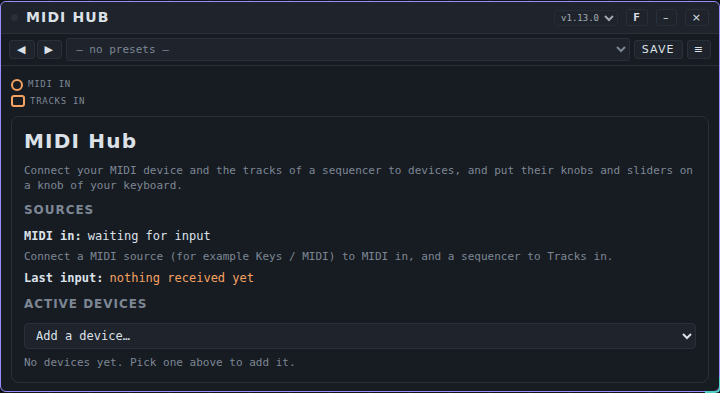
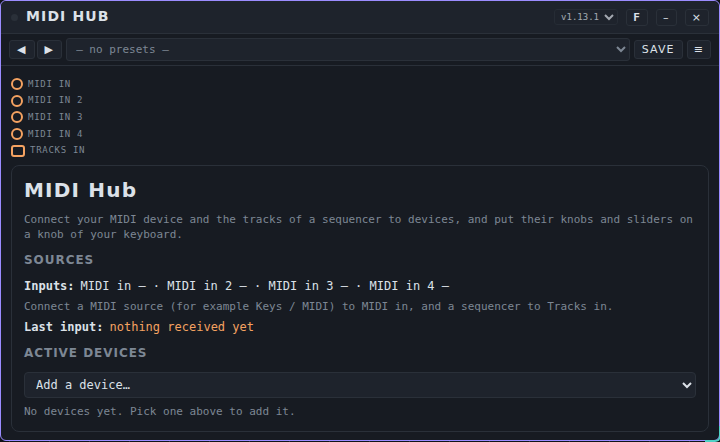
MIDI Hub: vier MIDI-ingangen voor meer dan één fysiek MIDI-apparaat tegelijk, koppelingen en noteroutes per ingang, versie 1.13.1, handleiding en schermbeeld bijgewerkt

diff --git a/devices/tools/MidiHub/midi-hub.patchkamer-device.js b/devices/tools/MidiHub/midi-hub.patchkamer-device.js
@@ -1,4 +1,5 @@
 // SPDX-License-Identifier: AGPL-3.0-or-later
+// 1.13.1 — Vier MIDI-ingangen (MIDI in, 2, 3 en 4) in plaats van één, zodat je meer dan één fysiek MIDI-apparaat tegelijk kunt gebruiken: zet per apparaat een Keys / MIDI op zijn eigen ingang (kies daar de MIDI-ingang) en verbind elk met een eigen ingang van de hub. Een koppeling en een noteroute kunnen op één ingang gelden of op alle; oude koppelingen en routes gelden op alle ingangen en werken dus als voorheen.
 // 1.13.0 — Eerste versie. De MIDI Hub staat tussen je MIDI-bronnen (Keys / MIDI, een controller) en de apparaten in de werkruimte. Hij ziet welke apparaten er staan en laat je er een
 //          toevoegen aan zijn actieve apparaten. Per apparaat kies je waar de noten vandaan komen (het keyboard, met een MIDI-kanaal, of een spoor van een sequencer via de multi-MIDI-kabel,
 //          met de spoornaam erbij) en koppel je knoppen, schuiven, pads en toetsen van je MIDI-apparaat aan elke regelaar op de kaart van dat apparaat (schuiven, draaiknoppen, keuzelijsten,
@@ -11,39 +12,39 @@ const NOTE = ['C', 'C#', 'D', 'D#', 'E', 'F', 'F#', 'G', 'G#', 'A', 'A#', 'B'];
 const noteName = n => NOTE[((n % 12) + 12) % 12] + (Math.floor(n / 12) - 1);
 const str = (v, d, max) => typeof v === 'string' ? v.slice(0, max || 200) : d;
 const int = (v, a, b, d) => typeof v === 'number' && Number.isFinite(v) ? clamp(Math.round(v), a, b) : d;
-const KINDS = ['cc', 'note', 'bend', 'pressure', 'name'];
+const KINDS = ['cc', 'note', 'bend', 'pressure', 'name'], INS = ['in', 'in2', 'in3', 'in4'];
 
 // Teksten per taal (host.lang): Nederlandse bron, Engels als alternatief; onbekende taal = Engels
 const TXT = {
   nl: { title: 'MIDI Hub', hint: 'Koppel je MIDI-apparaat en de sporen van een sequencer aan apparaten, en zet hun knoppen en schuiven op een knop van je keyboard.',
     last: 'Laatste invoer', none: 'nog niets ontvangen', sources: 'Bronnen', noSources: 'Verbind een MIDI-bron (bijvoorbeeld Keys / MIDI) met MIDI in, en een sequencer met Sporen in.',
-    kbd: 'MIDI in', kbdOn: 'ontvangt invoer', kbdOff: 'wacht op invoer', tracks: 'Sporen',
+    kbd: 'MIDI in', inputs: 'Ingangen', kbdOn: 'ontvangt invoer', kbdOff: 'wacht op invoer', tracks: 'Sporen',
     devices: 'Actieve apparaten', addDevice: 'Apparaat toevoegen…', noDevices: 'Nog geen apparaten. Kies er hierboven een om toe te voegen.', remove: 'Verwijder',
     routes: 'Noten van', addRoute: '+ bron', routeNone: 'geen', routeKbd: 'Keyboard', routeTrack: 'Spoor', chAny: 'alle kanalen', ch: 'kanaal',
     cable: 'kabel', cableOk: 'verbonden', cableNone: 'geen kabel', cableLost: 'kabel is los', reconnect: 'Opnieuw verbinden', noInput: 'Dit apparaat heeft geen gebeurtenissen-ingang.',
     maps: 'Koppelingen', addMap: '+ koppeling', learn: 'Leer', learning: 'Draai aan een knop…', learned: 'Geleerd', control: 'Regelaar', pick: 'Kies een regelaar', missing: 'niet gevonden',
     min: 'min', max: 'max', invert: 'omkeren', toggle: 'wissel', clear: 'Alles wissen', refresh: 'Ververs regelaars', counts: n => n + ' regelaar' + (n === 1 ? '' : 's'),
     lib: 'Bibliotheek', libPick: 'Opgeslagen koppeling…', load: 'Laad', save: 'Bewaar als…', del: 'Wis', libName: 'Naam van de koppeling', gone: 'Apparaat staat niet meer in de werkruimte',
-    srcCc: n => 'CC ' + n, srcName: n => 'CC ' + n, srcNote: n => 'Noot ' + noteName(n), srcBend: 'Pitch bend', srcPress: 'Kanaaldruk', anyCh: 'ch alle', unmapped: 'nog geen knop geleerd' },
+    inAny: 'alle ingangen', inN: p => (p === 'in' ? 'MIDI in' : 'MIDI in ' + p.slice(2)), srcCc: n => 'CC ' + n, srcName: n => 'CC ' + n, srcNote: n => 'Noot ' + noteName(n), srcBend: 'Pitch bend', srcPress: 'Kanaaldruk', anyCh: 'ch alle', unmapped: 'nog geen knop geleerd' },
   en: { title: 'MIDI Hub', hint: 'Connect your MIDI device and the tracks of a sequencer to devices, and put their knobs and sliders on a knob of your keyboard.',
     last: 'Last input', none: 'nothing received yet', sources: 'Sources', noSources: 'Connect a MIDI source (for example Keys / MIDI) to MIDI in, and a sequencer to Tracks in.',
-    kbd: 'MIDI in', kbdOn: 'receiving input', kbdOff: 'waiting for input', tracks: 'Tracks',
+    kbd: 'MIDI in', inputs: 'Inputs', kbdOn: 'receiving input', kbdOff: 'waiting for input', tracks: 'Tracks',
     devices: 'Active devices', addDevice: 'Add a device…', noDevices: 'No devices yet. Pick one above to add it.', remove: 'Remove',
     routes: 'Notes from', addRoute: '+ source', routeNone: 'none', routeKbd: 'Keyboard', routeTrack: 'Track', chAny: 'all channels', ch: 'channel',
     cable: 'cable', cableOk: 'connected', cableNone: 'no cable', cableLost: 'cable was removed', reconnect: 'Reconnect', noInput: 'This device has no event input.',
     maps: 'Mappings', addMap: '+ mapping', learn: 'Learn', learning: 'Move a knob…', learned: 'Learned', control: 'Control', pick: 'Pick a control', missing: 'not found',
     min: 'min', max: 'max', invert: 'invert', toggle: 'toggle', clear: 'Clear all', refresh: 'Refresh controls', counts: n => n + ' control' + (n === 1 ? '' : 's'),
     lib: 'Library', libPick: 'Saved mapping…', load: 'Load', save: 'Save as…', del: 'Delete', libName: 'Name of the mapping', gone: 'This device is no longer in the workspace',
-    srcCc: n => 'CC ' + n, srcName: n => 'CC ' + n, srcNote: n => 'Note ' + noteName(n), srcBend: 'Pitch bend', srcPress: 'Channel pressure', anyCh: 'ch any', unmapped: 'no knob learned yet' }
+    inAny: 'any input', inN: p => (p === 'in' ? 'MIDI in' : 'MIDI in ' + p.slice(2)), srcCc: n => 'CC ' + n, srcName: n => 'CC ' + n, srcNote: n => 'Note ' + noteName(n), srcBend: 'Pitch bend', srcPress: 'Channel pressure', anyCh: 'ch any', unmapped: 'no knob learned yet' }
 };
 
 const newMap = () => ({ src: null, ctl: '', label: '', min: 0, max: 1, inv: false, toggle: false });
 function normMap(m) {
-  m = m && typeof m === 'object' ? m : {}; const s = m.src && typeof m.src === 'object' && KINDS.includes(m.src.k) ? { k: m.src.k, n: int(m.src.n, -1, 127, -1), id: str(m.src.id, '', 40), ch: int(m.src.ch, 0, 16, 0) } : null;
+  m = m && typeof m === 'object' ? m : {}; const s = m.src && typeof m.src === 'object' && KINDS.includes(m.src.k) ? { k: m.src.k, n: int(m.src.n, -1, 127, -1), id: str(m.src.id, '', 40), ch: int(m.src.ch, 0, 16, 0), port: INS.includes(m.src.port) ? m.src.port : '' } : null;
   const lo = typeof m.min === 'number' && Number.isFinite(m.min) ? clamp(m.min, 0, 1) : 0, hi = typeof m.max === 'number' && Number.isFinite(m.max) ? clamp(m.max, 0, 1) : 1;
   return { src: s, ctl: str(m.ctl, '', 120), label: str(m.label, '', 60), min: lo, max: hi, inv: m.inv === true, toggle: m.toggle === true };
 }
-function normRoute(r) { r = r && typeof r === 'object' ? r : {}; return { src: r.src === 'tr' ? 'tr' : 'in', ch: int(r.ch, 0, 16, 0), key: str(r.key, '', 120), track: str(r.track, '', 80) }; }
+function normRoute(r) { r = r && typeof r === 'object' ? r : {}; return { src: r.src === 'tr' ? 'tr' : 'in', ch: int(r.ch, 0, 16, 0), port: INS.includes(r.port) ? r.port : '', key: str(r.key, '', 120), track: str(r.track, '', 80) }; }
 function normTarget(t) {
   t = t && typeof t === 'object' ? t : {};
   return { id: str(t.id, '', 40), def: str(t.def, '', 120), name: str(t.name, '', 80), port: str(t.port, '', 40), linked: t.linked === true, routes: (Array.isArray(t.routes) ? t.routes : []).slice(0, 16).map(normRoute), maps: (Array.isArray(t.maps) ? t.maps : []).slice(0, 128).map(normMap) };
@@ -57,12 +58,12 @@ function normalize(s) {
 }
 
 export default {
-  id: 'nl.patchkamer.midihub', name: 'MIDI Hub', version: '1.13.0', kind: 'utility', category: 'tool', ui: { width: 720, minWidth: 340 },
-  i18n: { nl: { ports: { in: 'MIDI in', tracks: 'Sporen in' } } },
-  ports: { audioIn: [], audioOut: [], eventIn: [{ id: 'in', name: 'MIDI in' }], eventOut: [], modIn: [], modOut: [], multiIn: [], multiOut: [], multiEventIn: [{ id: 'tracks', name: 'Tracks in' }], multiEventOut: [] },
+  id: 'nl.patchkamer.midihub', name: 'MIDI Hub', version: '1.13.1', kind: 'utility', category: 'tool', ui: { width: 720, minWidth: 340 },
+  i18n: { nl: { ports: { in: 'MIDI in', in2: 'MIDI in 2', in3: 'MIDI in 3', in4: 'MIDI in 4', tracks: 'Sporen in' } } },
+  ports: { audioIn: [], audioOut: [], eventIn: INS.map((id, i) => ({ id, name: i ? 'MIDI in ' + (i + 1) : 'MIDI in' })), eventOut: [], modIn: [], modOut: [], multiIn: [], multiOut: [], multiEventIn: [{ id: 'tracks', name: 'Tracks in' }], multiEventOut: [] },
   create(ctx, host) {
     const T = TXT[host && host.lang] || TXT.en;
-    let state = defaults(), dead = false, shell = null, sh = null, peers = [], bundles = new Map(), ctlCache = new Map(), learn = null, lastText = T.none, lastEl = null, heard = false, root = null, peerSig = '', portsApplied = false;
+    let state = defaults(), dead = false, shell = null, sh = null, peers = [], bundles = new Map(), ctlCache = new Map(), learn = null, lastText = T.none, lastEl = null, heard = new Set(), root = null, peerSig = '', portsApplied = false;
     const liveBars = new Map(), prev = new Map();   // meters en vorige waarde per koppeling (voor het oppakken van een flank)
     const pid = t => 'o_' + t.id;
     const peerOf = id => peers.find(p => p.id === id) || null;
@@ -70,7 +71,7 @@ export default {
     // ---- poorten: één eventuit per actief apparaat met een gebeurtenissen-ingang ----
     function portsNow() {
       const out = state.targets.filter(t => t.port).map(t => ({ id: pid(t), name: '→ ' + (t.name || t.id) }));
-      return { audioIn: [], audioOut: [], eventIn: [{ id: 'in', name: 'MIDI in' }], eventOut: out, modIn: [], modOut: [], multiIn: [], multiOut: [], multiEventIn: [{ id: 'tracks', name: 'Tracks in' }], multiEventOut: [] };
+      return { audioIn: [], audioOut: [], eventIn: INS.map((id, i) => ({ id, name: i ? 'MIDI in ' + (i + 1) : 'MIDI in' })), eventOut: out, modIn: [], modOut: [], multiIn: [], multiOut: [], multiEventIn: [{ id: 'tracks', name: 'Tracks in' }], multiEventOut: [] };
     }
     let portSig = '';
     function syncPorts() { const p = portsNow(), sig = JSON.stringify(p.eventOut); if (sig === portSig) return; portSig = sig; try { host.setPorts(self, p); } catch (e) { /* de host kent ons nog niet */ } }
@@ -106,7 +107,7 @@ export default {
       return { k: 'name', n: -1, id: String(ev.id || ''), val: v };
     }
     const sameSrc = (a, b) => a && b && a.k === b.k && (a.k === 'cc' || a.k === 'note' ? a.n === b.n : a.k === 'name' ? a.id === b.id : true);
-    const srcLabel = s => !s ? T.unmapped : (s.k === 'cc' ? T.srcCc(s.n) : s.k === 'note' ? T.srcNote(s.n) : s.k === 'bend' ? T.srcBend : s.k === 'pressure' ? T.srcPress : T.srcName(s.id)) + ' · ' + (s.ch ? 'ch ' + s.ch : T.anyCh);
+    const srcLabel = s => !s ? T.unmapped : (s.k === 'cc' ? T.srcCc(s.n) : s.k === 'note' ? T.srcNote(s.n) : s.k === 'bend' ? T.srcBend : s.k === 'pressure' ? T.srcPress : T.srcName(s.id)) + ' · ' + (s.ch ? 'ch ' + s.ch : T.anyCh) + (s.port ? ' · ' + T.inN(s.port) : '');
     function apply(t, m, mi, s) {
       let v = s.val; if (m.inv) v = 1 - v; v = m.min + v * (m.max - m.min);
       const key = t.id + ':' + mi, c = resolve(t, m); if (!c) return;
@@ -115,19 +116,19 @@ export default {
       const q = Math.round(v * 1024); if (prev.get(key) === q) return; prev.set(key, q); host.setControl(self, t.id, c.key, v);
       const bar = liveBars.get(key); if (bar) bar.style.width = Math.round(clamp(v, 0, 1) * 100) + '%';
     }
-    function onKeyboard(ev) {
+    function onKeyboard(ev, port) {
       const s = srcOf(ev), ch = int(ev.ch, 0, 16, 0);
-      if (!heard) { heard = true; render(); }
+      if (!heard.has(port)) { heard.add(port); render(); }
       if (s) {
-        const shown = s.k === 'note' && ev.type === 'noteoff' ? null : srcLabel({ ...s, ch }) + ' = ' + Math.round(s.val * 100) + '%';
+        const shown = s.k === 'note' && ev.type === 'noteoff' ? null : srcLabel({ ...s, ch, port }) + ' = ' + Math.round(s.val * 100) + '%';
         if (shown) { lastText = shown; if (lastEl) lastEl.textContent = shown; }
-        if (learn && !(s.k === 'note' && ev.type === 'noteoff')) { const t = target(learn.t), m = t && t.maps[learn.m]; if (m) { m.src = { k: s.k, n: s.n, id: s.id || '', ch }; learn = null; render(); return; } learn = null; }
+        if (learn && !(s.k === 'note' && ev.type === 'noteoff')) { const t = target(learn.t), m = t && t.maps[learn.m]; if (m) { m.src = { k: s.k, n: s.n, id: s.id || '', ch, port }; learn = null; render(); return; } learn = null; }
       }
-      if (s) for (const t of state.targets) t.maps.forEach((m, mi) => { if (m.src && m.ctl && sameSrc(m.src, s) && (!m.src.ch || m.src.ch === ch)) { try { apply(t, m, mi, s); } catch (e) { /* de regelaar is weg */ } } });
+      if (s) for (const t of state.targets) t.maps.forEach((m, mi) => { if (m.src && m.ctl && sameSrc(m.src, s) && (!m.src.ch || m.src.ch === ch) && (!m.src.port || m.src.port === port)) { try { apply(t, m, mi, s); } catch (e) { /* de regelaar is weg */ } } });
       for (const t of state.targets) {
-        if (!t.port) continue; const mapped = s && ev.type === 'cc' && t.maps.some(m => m.src && m.ctl && sameSrc(m.src, s) && (!m.src.ch || m.src.ch === ch));
+        if (!t.port) continue; const mapped = s && ev.type === 'cc' && t.maps.some(m => m.src && m.ctl && sameSrc(m.src, s) && (!m.src.ch || m.src.ch === ch) && (!m.src.port || m.src.port === port));
         if (mapped) continue;
-        for (const r of t.routes) if (r.src === 'in' && (!r.ch || r.ch === ch)) { host.emit(self, pid(t), ev); break; }
+        for (const r of t.routes) if (r.src === 'in' && (!r.ch || r.ch === ch) && (!r.port || r.port === port)) { host.emit(self, pid(t), ev); break; }
       }
     }
     function onTrack(ev) {
@@ -140,9 +141,9 @@ export default {
       if (!root) return; root.replaceChildren(); liveBars.clear();
       // bronnen
       const sec = el('div', null, root, 'sec'); el('h3', T.sources, sec);
-      const k = el('div', null, sec, 'line'); el('b', T.kbd + ': ', k); k.appendChild(document.createTextNode(heard ? T.kbdOn : T.kbdOff));
+      const k = el('div', null, sec, 'line'); el('b', T.inputs + ': ', k); k.appendChild(document.createTextNode(INS.map(p => T.inN(p) + ' ' + (heard.has(p) ? '✓' : '–')).join(' · ')));
       for (const b of bundles.values()) { const l = el('div', null, sec, 'line'); el('b', b.label + ': ', l); l.appendChild(document.createTextNode(b.tracks.map(t => t.name + (t.ch ? ' (' + t.ch + ')' : '')).join(' · ') || '–')); }
-      if (!heard && !bundles.size) el('div', T.noSources, sec, 'hint');
+      if (!heard.size && !bundles.size) el('div', T.noSources, sec, 'hint');
       const act = el('div', null, sec, 'line act'); el('b', T.last + ': ', act); lastEl = el('span', lastText, act);
       // apparaten
       const dv = el('div', null, root, 'sec'); el('h3', T.devices, dv);
@@ -168,6 +169,7 @@ export default {
           if (r.src === 'tr' && !tl.some(x => x.key === r.key && x.track === r.track)) { const o = el('option', T.routeTrack + ': ' + (r.track || '?') + ' (' + T.missing + ')', sel); o.value = 'tr|' + r.key + '|' + r.track; }
           sel.value = r.src === 'in' ? 'in' : 'tr|' + r.key + '|' + r.track;
           const chs = el('select', null, row); chs.setAttribute('aria-label', T.ch); const a0 = el('option', T.chAny, chs); a0.value = '0'; for (let c = 1; c <= 16; c++) { const o = el('option', T.ch + ' ' + c, chs); o.value = String(c); } chs.value = String(r.ch); chs.hidden = r.src !== 'in';
+          const ins = el('select', null, row); ins.setAttribute('aria-label', T.kbd); const i0 = el('option', T.inAny, ins); i0.value = ''; for (const q of INS) { const o = el('option', T.inN(q), ins); o.value = q; } ins.value = r.port; ins.hidden = r.src !== 'in'; ins.onchange = () => { r.port = INS.includes(ins.value) ? ins.value : ''; };
           sel.onchange = () => { const v = sel.value; if (v === 'in') { r.src = 'in'; r.key = ''; r.track = ''; } else { const [, k, tr] = v.split('|'); r.src = 'tr'; r.key = k; r.track = tr; } render(); };
           chs.onchange = () => { r.ch = int(parseInt(chs.value, 10), 0, 16, 0); };
           const x = el('button', '×', row); x.type = 'button'; x.setAttribute('aria-label', T.remove); x.onclick = () => { t.routes.splice(ri, 1); render(); };
@@ -221,7 +223,7 @@ export default {
       onEventBundle(port, key, b) { if (dead) return; if (b) bundles.set(key, b); else bundles.delete(key); render(); },
       onEvent(port, ev) {
         if (dead || !ev || typeof ev !== 'object') return;
-        if (port === 'tracks') onTrack(ev); else if (port === 'in') onKeyboard(ev);
+        if (port === 'tracks') onTrack(ev); else if (INS.includes(port)) onKeyboard(ev, port);
       },
       onTransport() {},
       getState() { return JSON.parse(JSON.stringify(state)); },

diff --git a/docs/tools/USER-MANUAL_NL.md b/docs/tools/USER-MANUAL_NL.md
@@ -253,16 +253,16 @@ Je kunt een koppeling bewaren per soort apparaat, en als preset van de hub.
 
 | Regelaar | Wat hij doet |
 |---|---|
-| **Bronnen** | Toont of er MIDI-invoer binnenkomt, en de sporen van elke sequencer die met een multi-MIDI-kabel is verbonden (met spoornaam en kanaal). |
+| **Bronnen** | Toont op welke van de vier MIDI-ingangen iets is binnengekomen (✓), en de sporen van elke sequencer die met een multi-MIDI-kabel is verbonden (met spoornaam en kanaal). |
 | **Laatste invoer** | Het laatste bericht dat binnenkwam, bijvoorbeeld **CC 74 · ch 1 = 52%**. Draai aan een knop om te zien welk nummer hij heeft. |
 | **Apparaat toevoegen…** | Voegt een apparaat uit de werkruimte toe aan de actieve apparaten. De hub legt dan een kabel van zijn eigen uitgang naar dat apparaat. |
 | **×** (bovenaan een apparaat) | Haalt het apparaat uit de hub en haalt zijn kabel weg. |
 | **Ververs regelaars** | Leest de regelaars op de kaart van het apparaat opnieuw. Gebruik het nadat je een ander tabblad van het apparaat hebt geopend. |
-| **Noten van** | Een of meer bronnen voor de noten van dit apparaat: **Keyboard** (met **alle kanalen** of één **kanaal**), of **Spoor: sequencer › spoornaam (ch n)**. **+ bron** voegt er een toe. |
+| **Noten van** | Een of meer bronnen voor de noten van dit apparaat: **Keyboard** (met **alle kanalen** of één **kanaal**, en **alle ingangen** of één van de vier MIDI-ingangen), of **Spoor: sequencer › spoornaam (ch n)**. **+ bron** voegt er een toe. |
 | **Opnieuw verbinden** | Legt de kabel naar het apparaat opnieuw als je hem zelf hebt losgehaald. De hub legt hem nooit uit zichzelf terug. |
 | **Bibliotheek** | Bewaarde koppelingen voor dit soort apparaat: kies er een en **Laad**, of typ een naam en **Bewaar als…**. **Wis** verwijdert de gekozen. |
 | **+ koppeling** | Voegt een rij toe en start **Leer**. |
-| **Leer** | Draai aan een knop, beweeg een schuif, sla een pad of druk een toets op je MIDI-apparaat. Het eerste bericht dat binnenkomt is de bron van de rij (CC-nummer, noot, pitch bend of kanaaldruk, met zijn kanaal). |
+| **Leer** | Draai aan een knop, beweeg een schuif, sla een pad of druk een toets op je MIDI-apparaat. Het eerste bericht dat binnenkomt is de bron van de rij (CC-nummer, noot, pitch bend of kanaaldruk, met zijn kanaal en de MIDI-ingang waarop hij binnenkwam). |
 | **Regelaar** (lijst) | De regelaar op het apparaat die deze knop beweegt. De lijst toont elke schuif, knop, lijst, vinkje en knop van de kaart. |
 | **min** / **max** | Het deel van het bereik van de regelaar dat de knop beweegt, in procenten. Zet min op 20 en max op 80 om de regelaar in het midden te houden. |
 | **omkeren** | Draait de richting om. |
@@ -275,7 +275,7 @@ Een gekoppelde knop van het keyboard wordt niet ook nog als CC-bericht naar het 
 
 | Poort | Soort | Gebruik |
 |---|---|---|
-| **MIDI in** | event in | Verbind **Notes / CC** van **Keys / MIDI**, of een andere MIDI-bron. |
+| **MIDI in**, **MIDI in 2**, **MIDI in 3**, **MIDI in 4** | event in | Verbind **Notes / CC** van **Keys / MIDI**, of een andere MIDI-bron. Gebruik één ingang per fysiek MIDI-apparaat (zie hieronder). |
 | **Sporen in** | multi-MIDI in | Verbind de poort **Sporen** van een sequencer (Clip Arranger, Chord Sequencer, Pattern Tracker, Pattern Playlist). Je kunt meer dan één sequencer verbinden. |
 | **→ apparaat** | event uit | Eén per actief apparaat met een eventingang. De hub legt deze kabels zelf; het zijn gewone kabels die je kunt weghalen. |
 
@@ -287,7 +287,8 @@ De multi-MIDI-kabel is een dubbele, gestreepte oranje kabel. Hij draagt alle spo
 2. Kies in de hub **Apparaat toevoegen…** › Acid Baselines. Het keyboard speelt hem nu.
 3. Klik op **+ koppeling**, draai aan een knop op je keyboard (de rij zegt bijvoorbeeld **CC 74 · ch 1**) en kies **Cutoff** in de lijst. De knop beweegt nu de cutoff.
 4. Typ **Mijn keyboard** bij **Bibliotheek** en klik op **Bewaar als…**. De volgende keer kies je hem en klik je op **Laad**.
-5. Een spoor van een sequencer op de synth spelen: verbind de poort **Sporen** van de sequencer met **Sporen in**, en kies bij **Noten van** **Spoor: … › Bass**. Haal de rij **Keyboard** weg als de synth alleen het spoor moet spelen.
+5. **Twee fysieke MIDI-apparaten tegelijk**, bijvoorbeeld een keyboard en een kastje met knoppen: plaats twee **Keys / MIDI**-apparaten en kies in elk zijn eigen **MIDI-ingang**. Verbind de eerste met **MIDI in** van de hub en de tweede met **MIDI in 2**. Een koppeling die je leert onthoudt de ingang (bijvoorbeeld **CC 74 · ch 1 · MIDI in 2**), dus hetzelfde CC-nummer op het andere apparaat beweegt hem niet. Bij **Noten van** kun je de keyboardroute tot één ingang beperken.
+6. Een spoor van een sequencer op de synth spelen: verbind de poort **Sporen** van de sequencer met **Sporen in**, en kies bij **Noten van** **Spoor: … › Bass**. Haal de rij **Keyboard** weg als de synth alleen het spoor moet spelen.
 
 ### Presets
 
@@ -299,6 +300,7 @@ Het pack **MIDI Hub Basics** heeft 15 presets in vier mappen: **Sound Controller
 - Verandert een apparaat zijn kaart (bijvoorbeeld een ander tabblad), druk dan op **Ververs regelaars**. Een koppeling waarvan de regelaar weg is, staat als *niet gevonden* en doet niets.
 - Web MIDI werkt in Chrome en Edge, en pas nadat je in **Keys / MIDI** op **MIDI verbinden** klikt. De hub zelf opent geen MIDI.
 - De hub verandert niets als je een werkruimte opent of een kabel verbindt: hij reageert alleen op wat je speelt en indrukt.
+- Een koppeling van vóór versie 1.13.1 heeft geen ingang en werkt op alle vier de ingangen. Leer hem opnieuw als twee apparaten hetzelfde CC-nummer sturen.
 - De hub speelt geen geluid.
 
 ## Als het niet werkt

diff --git a/docs/tools/USER-MANUAL_EN.md b/docs/tools/USER-MANUAL_EN.md
@@ -253,16 +253,16 @@ You can save a mapping for each kind of device, and as a preset of the hub.
 
 | Control | What it does |
 |---|---|
-| **Sources** | Shows if MIDI input arrives, and the tracks of every sequencer that is connected with a multi-MIDI cable (with track name and channel). |
+| **Sources** | Shows which of the four MIDI inputs have received something (✓), and the tracks of every sequencer that is connected with a multi-MIDI cable (with track name and channel). |
 | **Last input** | The last message that came in, for example **CC 74 · ch 1 = 52%**. Turn a knob to see which number it is. |
 | **Add a device…** | Adds a device of the workspace to the active devices. The hub then puts a cable from its own output to that device. |
 | **×** (top of a device) | Removes the device from the hub and takes its cable away. |
 | **Refresh controls** | Reads the controls on the card of the device again. Use it after you opened another tab of the device. |
-| **Notes from** | One or more sources for the notes of this device: **Keyboard** (with **all channels** or one **channel**), or **Track: sequencer › track name (ch n)**. **+ source** adds one. |
+| **Notes from** | One or more sources for the notes of this device: **Keyboard** (with **all channels** or one **channel**, and **any input** or one of the four MIDI inputs), or **Track: sequencer › track name (ch n)**. **+ source** adds one. |
 | **Reconnect** | Lays the cable to the device again when you removed it yourself. The hub never puts it back by itself. |
 | **Library** | Saved mappings for this kind of device: pick one and **Load**, or type a name and **Save as…**. **Delete** removes the picked one. |
 | **+ mapping** | Adds a row and starts **Learn**. |
-| **Learn** | Turn a knob, move a slider, hit a pad or press a key on your MIDI device. The first message that arrives is the source of the row (CC number, note, pitch bend or channel pressure, with its channel). |
+| **Learn** | Turn a knob, move a slider, hit a pad or press a key on your MIDI device. The first message that arrives is the source of the row (CC number, note, pitch bend or channel pressure, with its channel and the MIDI input it came in on). |
 | **Control** (list) | The control on the device that this knob moves. The list shows every slider, knob, list, tick box and button of the card. |
 | **min** / **max** | The part of the control's range that the knob moves, in percent. Set min 20 and max 80 to keep the control in the middle. |
 | **invert** | Turns the direction round. |
@@ -275,7 +275,7 @@ A knob on the keyboard that is mapped is not sent on to the device as a CC messa
 
 | Port | Kind | Use |
 |---|---|---|
-| **MIDI in** | event in | Connect **Notes / CC** of **Keys / MIDI**, or another MIDI source. |
+| **MIDI in**, **MIDI in 2**, **MIDI in 3**, **MIDI in 4** | event in | Connect **Notes / CC** of **Keys / MIDI**, or another MIDI source. Use one input for each physical MIDI device (see below). |
 | **Tracks in** | multi-MIDI in | Connect the **Tracks** port of a sequencer (Clip Arranger, Chord Sequencer, Pattern Tracker, Pattern Playlist). You can connect more than one sequencer. |
 | **→ device** | event out | One per active device that has an event input. The hub lays these cables itself; they are normal cables that you can remove. |
 
@@ -287,7 +287,8 @@ The multi-MIDI cable is a double, dashed orange cable. It carries all tracks of 
 2. In the hub, choose **Add a device…** › Acid Baselines. The keyboard now plays it.
 3. Click **+ mapping**, turn a knob on your keyboard (the row says for example **CC 74 · ch 1**) and pick **Cutoff** in the list. The knob now moves the cutoff.
 4. Type **My keyboard** under **Library** and click **Save as…**. The next time you can pick it and **Load** it.
-5. To play a track of a sequencer on the synth: connect the sequencer **Tracks** port to **Tracks in**, and in **Notes from** pick **Track: … › Bass**. Remove the **Keyboard** row if the synth must only play the track.
+5. **Two physical MIDI devices at once**, for example a keyboard and a box with knobs: place two **Keys / MIDI** devices and choose in each its own **MIDI input**. Connect the first to **MIDI in** of the hub and the second to **MIDI in 2**. A mapping you learn from a knob remembers the input (for example **CC 74 · ch 1 · MIDI in 2**), so the same CC number on the other device does not move it. Under **Notes from** you can limit the keyboard route to one input.
+6. To play a track of a sequencer on the synth: connect the sequencer **Tracks** port to **Tracks in**, and in **Notes from** pick **Track: … › Bass**. Remove the **Keyboard** row if the synth must only play the track.
 
 ### Presets
 
@@ -299,6 +300,7 @@ The **MIDI Hub Basics** pack has 15 presets in four folders: **Sound Controllers
 - If a device changes its card (for example another tab), press **Refresh controls**. A mapping whose control is gone is shown as *not found* and does nothing.
 - Web MIDI works in Chrome and Edge, and only after you click **Connect MIDI** in **Keys / MIDI**. The hub itself does not open MIDI.
 - The hub changes nothing when you open a workspace or connect a cable: it only reacts to what you play and press.
+- A mapping made before version 1.13.1 has no input and works on all four inputs. Learn it again if two devices send the same CC number.
 - The hub does not play audio.
 
 ## If it does not work
